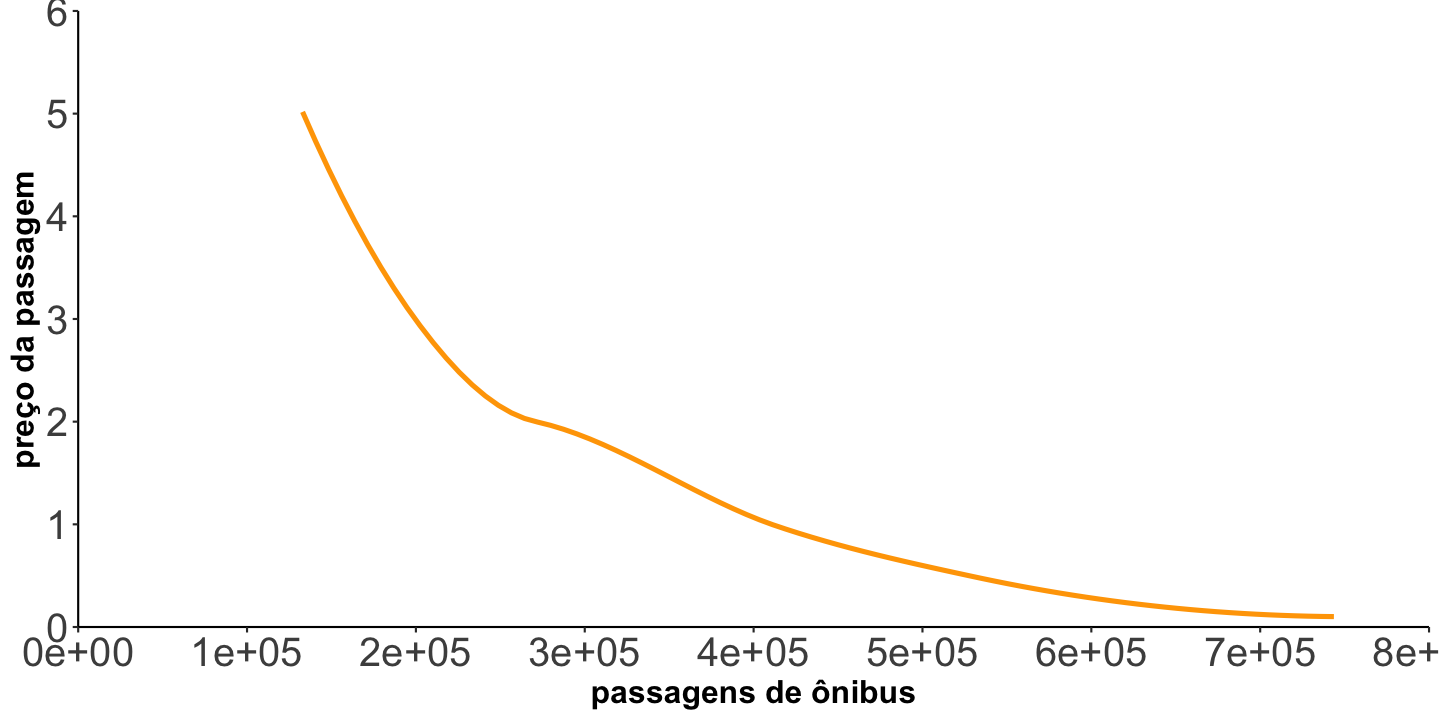
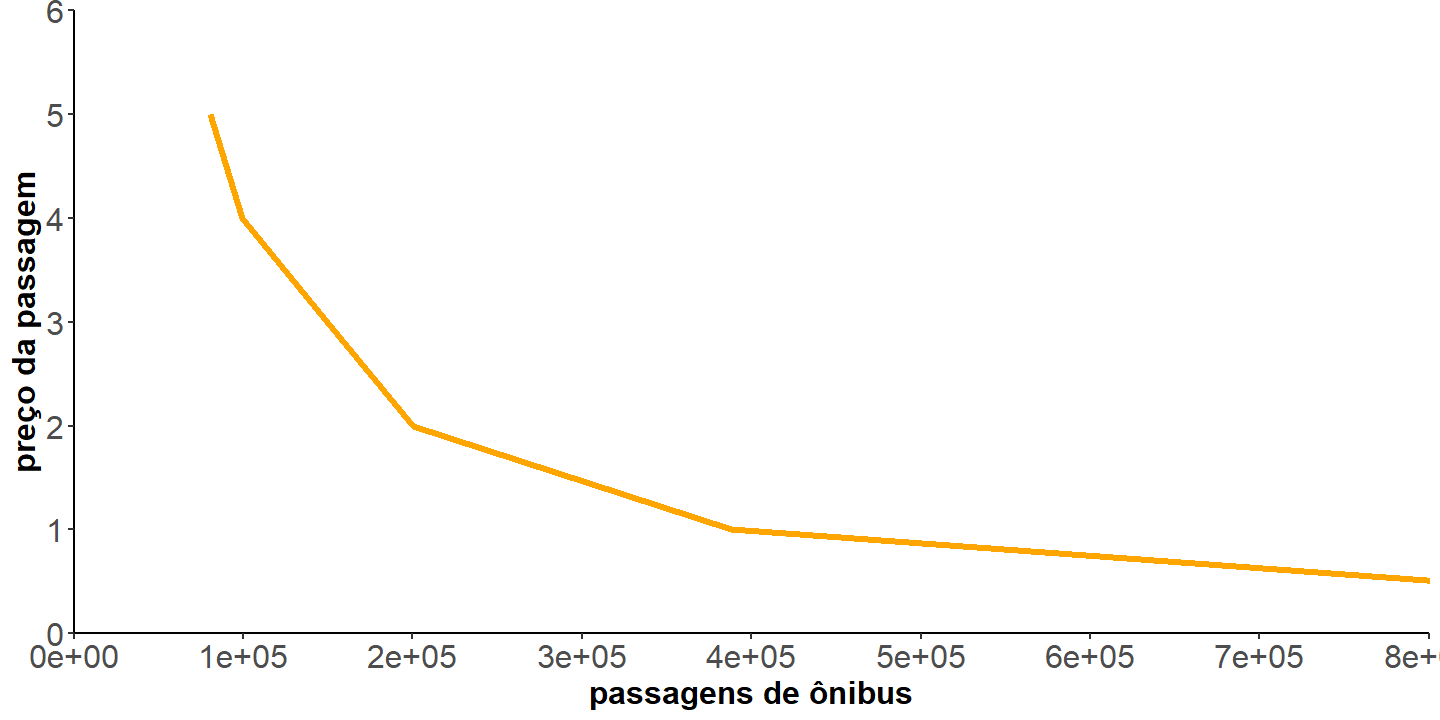
corrigindo a curva de preço-consumo

diff --git a/Apendice06_DemandaIndividual/index.html b/Apendice06_DemandaIndividual/index.html
@@ -4,7 +4,6 @@
     <title>Demanda Individual e de Mercado</title>
     <meta charset="utf-8" />
     <meta name="author" content="Prof. Mauricio Uriona Maldonado" />
-    <meta name="date" content="2022-12-05" />
     <script src="libs/header-attrs/header-attrs.js"></script>
     <link href="libs/remark-css/default.css" rel="stylesheet" />
     <link href="libs/remark-css/rladies.css" rel="stylesheet" />
@@ -19,11 +18,21 @@
     <textarea id="source">
 class: center, middle, inverse, title-slide
 
+.title[
 # Demanda Individual e de Mercado
+]
+.subtitle[
 ## Apêndice 3 - Aula 04 - Demanda Individual
+]
+.author[
 ### Prof. Mauricio Uriona Maldonado
+]
+.institute[
 ### EPS 5222
-### 12/05/2022
+]
+.date[
+### 13/05/2022
+]
 
 ---
 
@@ -154,17 +163,7 @@ class: center, middle, inverse, title-slide
 
 # Quando a renda muda: curva renda-consumo
 
-
-```r
-varios_budget + 
-  geom_point(data=renda_consumo, aes(x=x,y=y),
-             size=5)+
-  geom_line(data=reta_pc, aes(x=x, y=y), color="blue", size=2)+
-  annotate(geom = "label", x = 60, y = 30, 
-           label = "Reta Renda-Consumo")
-```
-
-![](index_files/figure-html/unnamed-chunk-15-1.png)&lt;!-- --&gt;
+&lt;img src="index_files/figure-html/unnamed-chunk-15-1.png" width="576" style="display: block; margin: auto;" /&gt;
 
 
 - Se a inclinação da curva renda-consumo for positiva, o bem `\(x\)` é um **bem normal**
@@ -180,15 +179,15 @@ varios_budget +
 Os pontos máximos que foram calculados a aparecem abaixo:
 
 
-|     x|     y| p_x|
-|-----:|-----:|---:|
-| 72.72| 36.36| 0.1|
-| 53.34| 26.67| 0.5|
-| 40.00| 20.00| 1.0|
-| 26.67| 13.34| 2.0|
-| 20.00| 10.00| 3.0|
-| 16.00|  8.00| 4.0|
-| 13.34|  6.67| 5.0|
+|   x|  y| p_x|
+|---:|--:|---:|
+| 400| 20| 0.1|
+|  80| 20| 0.5|
+|  40| 20| 1.0|
+|  20| 20| 2.0|
+|  15| 20| 3.0|
+|  10| 20| 4.0|
+|   8| 20| 5.0|
 
 
 ---
@@ -271,6 +270,19 @@ if (window.HTMLWidgets) slideshow.on('afterShowSlide', function (slide) {
     deleted = true;
   });
 })();
+// add `data-at-shortcutkeys` attribute to <body> to resolve conflicts with JAWS
+// screen reader (see PR #262)
+(function(d) {
+  let res = {};
+  d.querySelectorAll('.remark-help-content table tr').forEach(tr => {
+    const t = tr.querySelector('td:nth-child(2)').innerText;
+    tr.querySelectorAll('td:first-child .key').forEach(key => {
+      const k = key.innerText;
+      if (/^[a-z]$/.test(k)) res[k] = t;  // must be a single letter (key)
+    });
+  });
+  d.body.setAttribute('data-at-shortcutkeys', JSON.stringify(res));
+})(document);
 (function() {
   "use strict"
   // Replace <script> tags in slides area to make them executable
